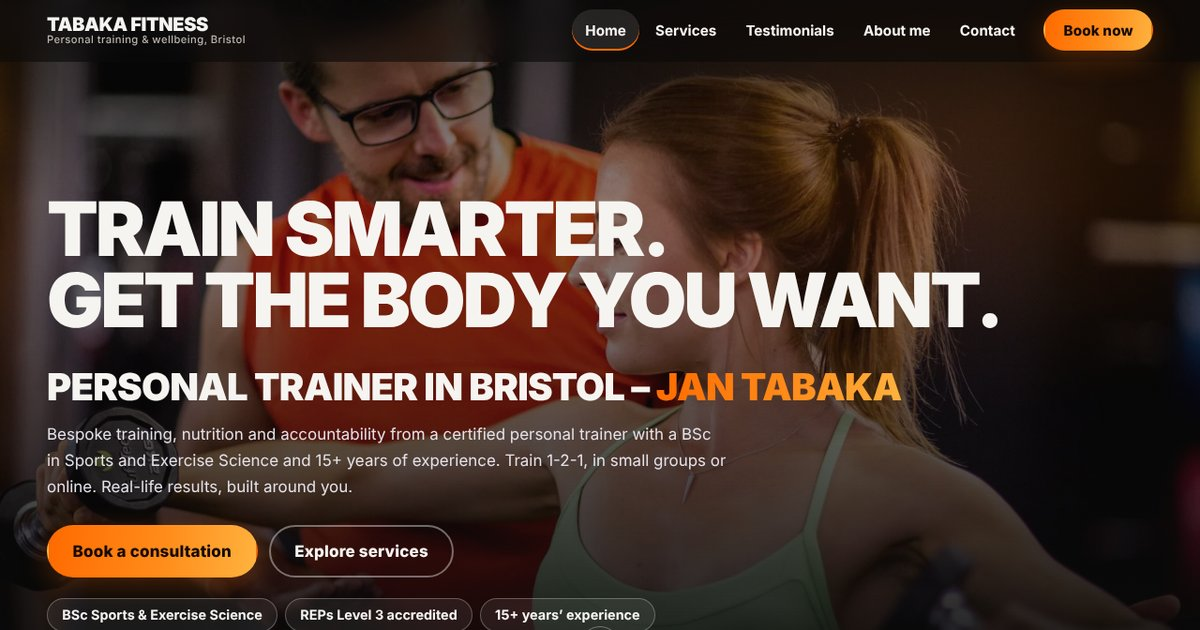
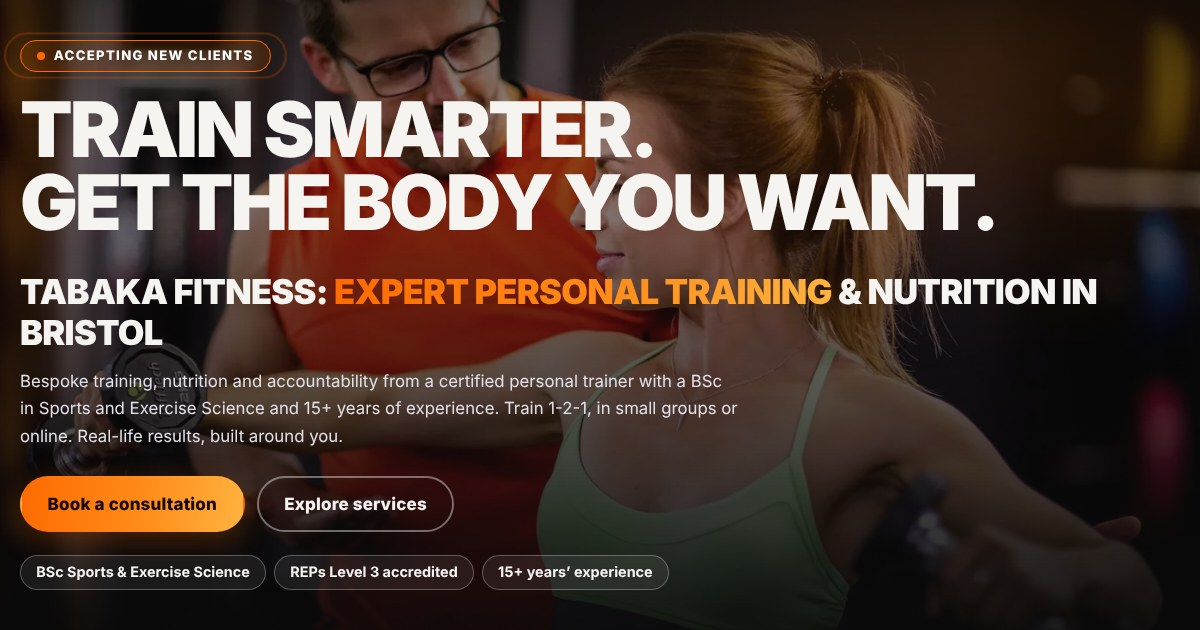
og-preview update

diff --git a/personal-training-bristol/index.html b/personal-training-bristol/index.html
@@ -16,7 +16,7 @@
 <meta property="og:title" content="Personal Training in Bristol | Tabaka Fitness">
 <meta property="og:description" content="Personal training in Bristol with Jan Tabaka: bespoke 1-2-1 and small-group programmes with nutrition guidance at LA Gym. £65 for a one-to-one session; small-group prices are confirmed with Jan first. Book now.">
 <meta property="og:url" content="https://tabakafitness.com/personal-training-bristol/">
-<meta property="og:image" content="https://tabakafitness.com/assets/images/og-image.jpg">
+<meta property="og:image" content="https://tabakafitness.com/assets/images/og-image-header.jpg">
 <meta name="twitter:card" content="summary_large_image">
 
 <script>document.documentElement.classList.add('js')</script>

diff --git a/nutritional-consultation-body-composition-assesment/index.html b/nutritional-consultation-body-composition-assesment/index.html
@@ -16,7 +16,7 @@
 <meta property="og:title" content="Body Composition &amp; Nutrition Assessment Bristol | Tabaka Fitness">
 <meta property="og:description" content="Body composition and nutrition analysis in Bristol: measure body fat and lean mass, review your food diary, get a written plan. From £30.">
 <meta property="og:url" content="https://tabakafitness.com/nutritional-consultation-body-composition-assesment/">
-<meta property="og:image" content="https://tabakafitness.com/assets/images/og-image.jpg">
+<meta property="og:image" content="https://tabakafitness.com/assets/images/og-image-header.jpg">
 <meta name="twitter:card" content="summary_large_image">
 
 <script>document.documentElement.classList.add('js')</script>

diff --git a/online-personal-training-nutrition/index.html b/online-personal-training-nutrition/index.html
@@ -16,7 +16,7 @@
 <meta property="og:title" content="Online Personal Training &amp; Nutrition Coaching UK | Tabaka Fitness">
 <meta property="og:description" content="Online personal training and nutrition coaching with Jan Tabaka: bespoke programmes, video sessions and accountability. From £39 a month.">
 <meta property="og:url" content="https://tabakafitness.com/online-personal-training-nutrition/">
-<meta property="og:image" content="https://tabakafitness.com/assets/images/og-image.jpg">
+<meta property="og:image" content="https://tabakafitness.com/assets/images/og-image-header.jpg">
 <meta name="twitter:card" content="summary_large_image">
 
 <script>document.documentElement.classList.add('js')</script>

diff --git a/bristol-bachata/index.html b/bristol-bachata/index.html
@@ -16,7 +16,7 @@
 <meta property="og:title" content="Bristol Bachata Classes &amp; Parties | Mon &amp; Wed | Tabaka Fitness">
 <meta property="og:description" content="Bristol Bachata: sensual bachata classes and socials every Monday and Wednesday at Totos By The River. No partner needed; free first class.">
 <meta property="og:url" content="https://tabakafitness.com/bristol-bachata/">
-<meta property="og:image" content="https://tabakafitness.com/assets/images/og-image.jpg">
+<meta property="og:image" content="https://tabakafitness.com/assets/images/og-image-header.jpg">
 <meta name="twitter:card" content="summary_large_image">
 
 <script>document.documentElement.classList.add('js')</script>

diff --git a/acro-yoga/index.html b/acro-yoga/index.html
@@ -16,7 +16,7 @@
 <meta property="og:title" content="Acro Yoga Bristol | Beginner Partner Acrobatics | Tabaka Fitness">
 <meta property="og:description" content="Beginner-friendly acro yoga in Bristol: partner acrobatics, no experience or partner needed. Classes are paused – see how to get restart news.">
 <meta property="og:url" content="https://tabakafitness.com/acro-yoga/">
-<meta property="og:image" content="https://tabakafitness.com/assets/images/og-image.jpg">
+<meta property="og:image" content="https://tabakafitness.com/assets/images/og-image-header.jpg">
 <meta name="twitter:card" content="summary_large_image">
 
 <script>document.documentElement.classList.add('js')</script>

diff --git a/thai-yoga-massage/index.html b/thai-yoga-massage/index.html
@@ -16,7 +16,7 @@
 <meta property="og:title" content="Thai Yoga Massage in Bristol | Tabaka Fitness">
 <meta property="og:description" content="Full-body Thai yoga massage in Bristol: 60 minutes £60, 90 minutes £80. Floor-based, fully clothed stretching and compression massage with Jan Tabaka.">
 <meta property="og:url" content="https://tabakafitness.com/thai-yoga-massage/">
-<meta property="og:image" content="https://tabakafitness.com/assets/images/og-image.jpg">
+<meta property="og:image" content="https://tabakafitness.com/assets/images/og-image-header.jpg">
 <meta name="twitter:card" content="summary_large_image">
 
 <script>document.documentElement.classList.add('js')</script>

diff --git a/personal-trainer-bristol/index.html b/personal-trainer-bristol/index.html
@@ -16,7 +16,7 @@
 <meta property="og:title" content="About Jan Tabaka | Bristol Personal Trainer | Tabaka Fitness">
 <meta property="og:description" content="Meet Jan Tabaka: Bristol personal trainer with a BSc in Sports and Exercise Science, REPs Level 3 and 15+ years of experience.">
 <meta property="og:url" content="https://tabakafitness.com/personal-trainer-bristol/">
-<meta property="og:image" content="https://tabakafitness.com/assets/images/og-image.jpg">
+<meta property="og:image" content="https://tabakafitness.com/assets/images/og-image-header.jpg">
 <meta name="twitter:card" content="summary_large_image">
 
 <script>document.documentElement.classList.add('js')</script>

diff --git a/testimonials/index.html b/testimonials/index.html
@@ -16,7 +16,7 @@
 <meta property="og:title" content="Client Testimonials &amp; Results | Tabaka Fitness">
 <meta property="og:description" content="Real client testimonials and progress stories from Jan Tabaka’s Bristol personal training and nutrition clients, from weight loss to bodybuilding.">
 <meta property="og:url" content="https://tabakafitness.com/testimonials/">
-<meta property="og:image" content="https://tabakafitness.com/assets/images/og-image.jpg">
+<meta property="og:image" content="https://tabakafitness.com/assets/images/og-image-header.jpg">
 <meta name="twitter:card" content="summary_large_image">
 
 <script>document.documentElement.classList.add('js')</script>

diff --git a/index.html b/index.html
@@ -16,7 +16,7 @@
 <meta property="og:title" content="Personal Trainer in Bristol | Tabaka Fitness – Jan Tabaka">
 <meta property="og:description" content="Bristol personal trainer Jan Tabaka (BSc, REPs Level 3): 1-2-1 and small-group training, nutrition, online coaching, Thai yoga massage and bachata.">
 <meta property="og:url" content="https://tabakafitness.com/">
-<meta property="og:image" content="https://tabakafitness.com/assets/images/og-image.jpg">
+<meta property="og:image" content="https://tabakafitness.com/assets/images/og-image-header.jpg">
 <meta name="twitter:card" content="summary_large_image">
 
 <script>document.documentElement.classList.add('js')</script>

diff --git a/services/index.html b/services/index.html
@@ -16,7 +16,7 @@
 <meta property="og:title" content="Services | Personal Training &amp; Wellbeing | Tabaka Fitness">
 <meta property="og:description" content="All Tabaka Fitness services in Bristol: personal training, nutrition analysis, online coaching, Thai yoga massage, acroyoga and bachata.">
 <meta property="og:url" content="https://tabakafitness.com/services/">
-<meta property="og:image" content="https://tabakafitness.com/assets/images/og-image.jpg">
+<meta property="og:image" content="https://tabakafitness.com/assets/images/og-image-header.jpg">
 <meta name="twitter:card" content="summary_large_image">
 
 <script>document.documentElement.classList.add('js')</script>

diff --git a/contact/index.html b/contact/index.html
@@ -16,7 +16,7 @@
 <meta property="og:title" content="Contact Tabaka Fitness | Book Personal Training in Bristol">
 <meta property="og:description" content="Contact Tabaka Fitness in Bristol: call or WhatsApp 07951 514058 to book personal training, a nutrition assessment, massage or bachata.">
 <meta property="og:url" content="https://tabakafitness.com/contact/">
-<meta property="og:image" content="https://tabakafitness.com/assets/images/og-image.jpg">
+<meta property="og:image" content="https://tabakafitness.com/assets/images/og-image-header.jpg">
 <meta name="twitter:card" content="summary_large_image">
 
 <script>document.documentElement.classList.add('js')</script>

diff --git a/privacy-policy/index.html b/privacy-policy/index.html
@@ -16,7 +16,7 @@
 <meta property="og:title" content="Privacy Policy | Tabaka Fitness">
 <meta property="og:description" content="How Tabaka Fitness collects, uses and protects your personal information, and your rights under UK data protection law.">
 <meta property="og:url" content="https://tabakafitness.com/privacy-policy/">
-<meta property="og:image" content="https://tabakafitness.com/assets/images/og-image.jpg">
+<meta property="og:image" content="https://tabakafitness.com/assets/images/og-image-header.jpg">
 <meta name="twitter:card" content="summary_large_image">
 
 <script>document.documentElement.classList.add('js')</script>
